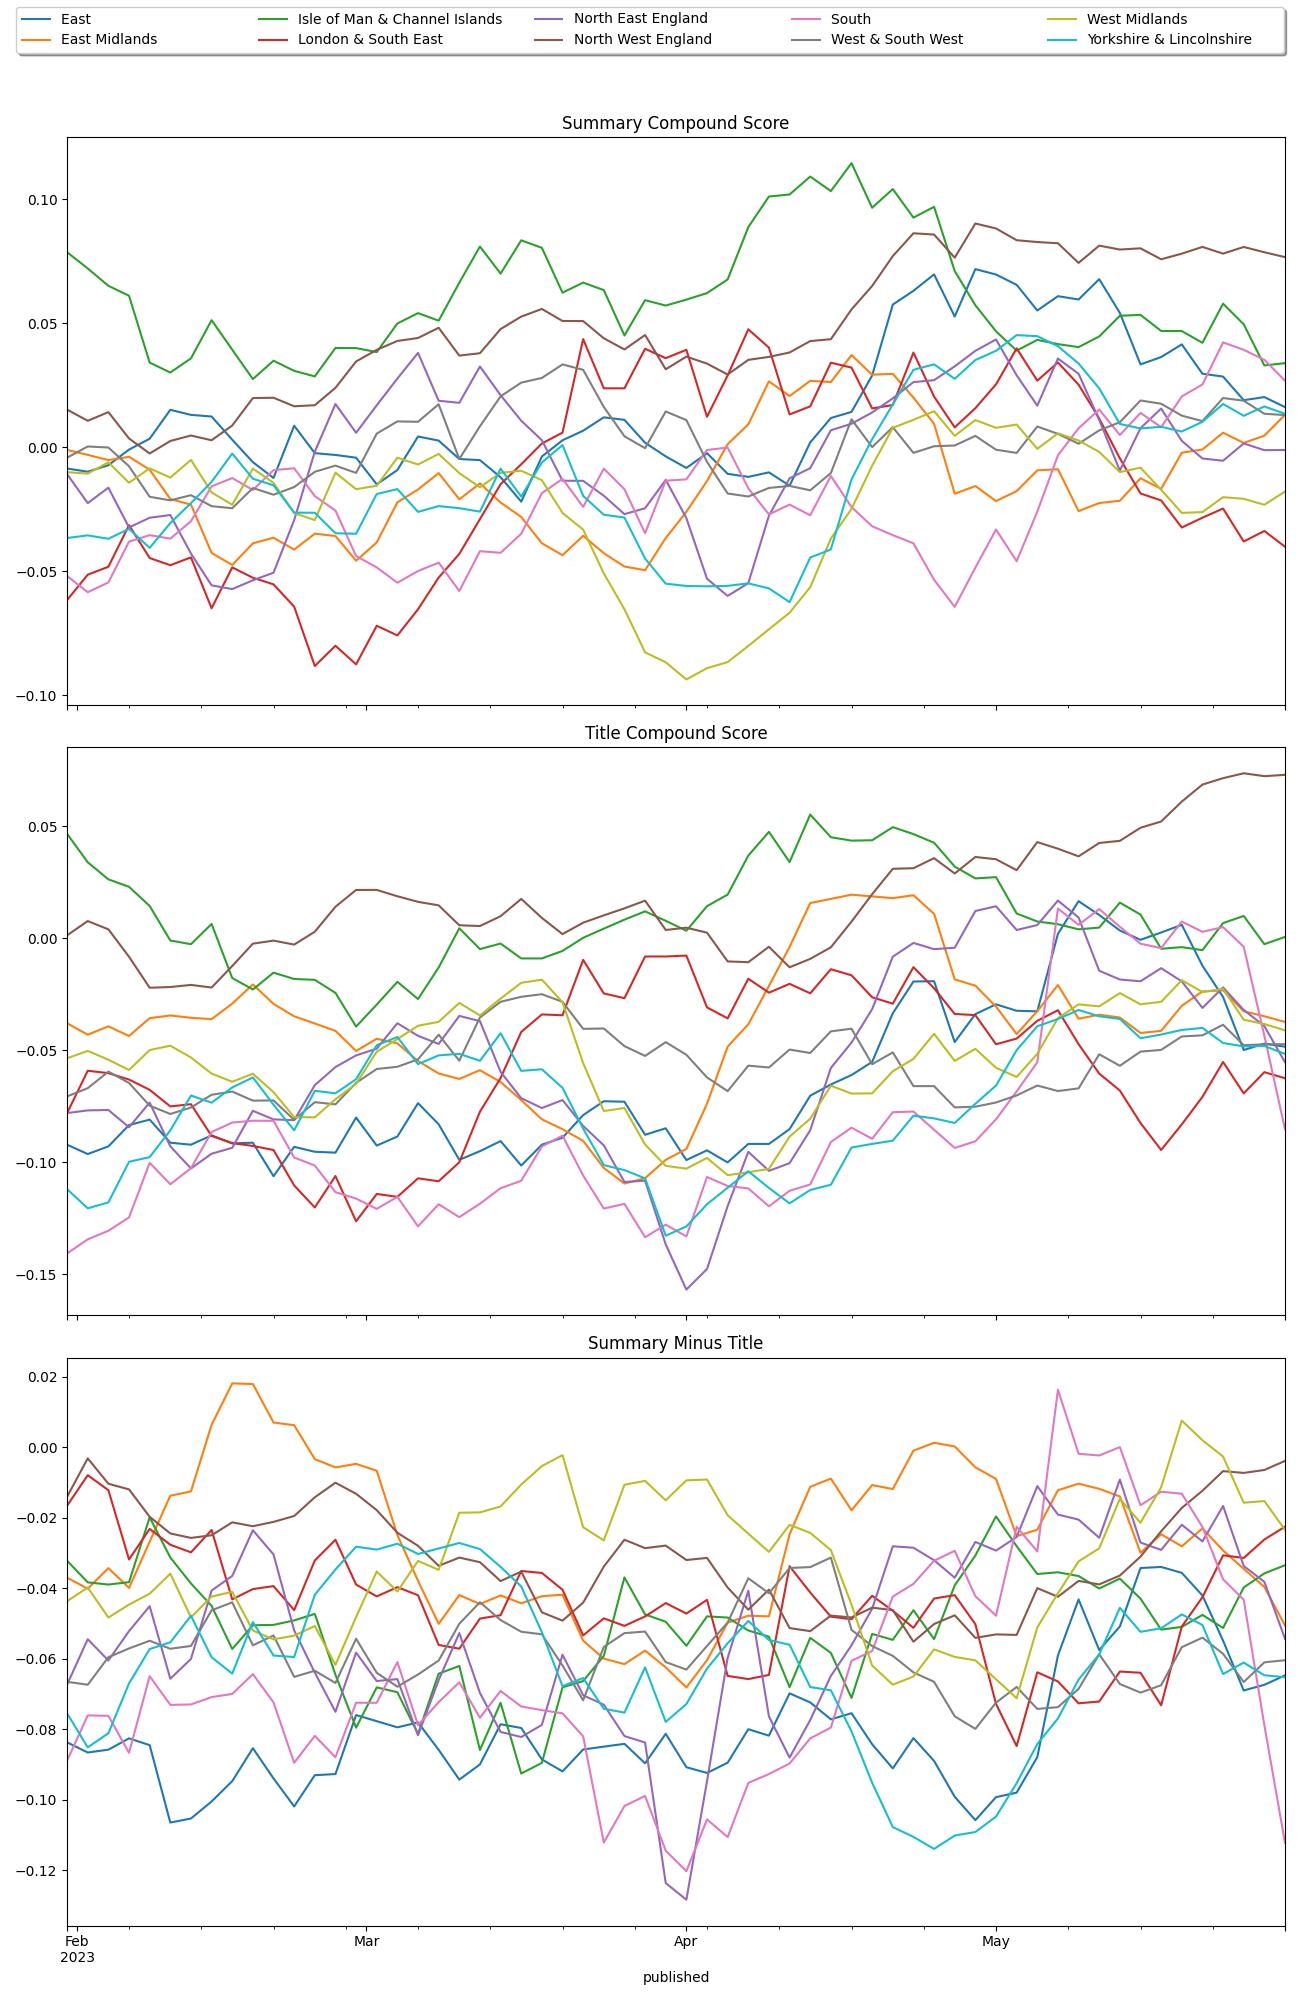
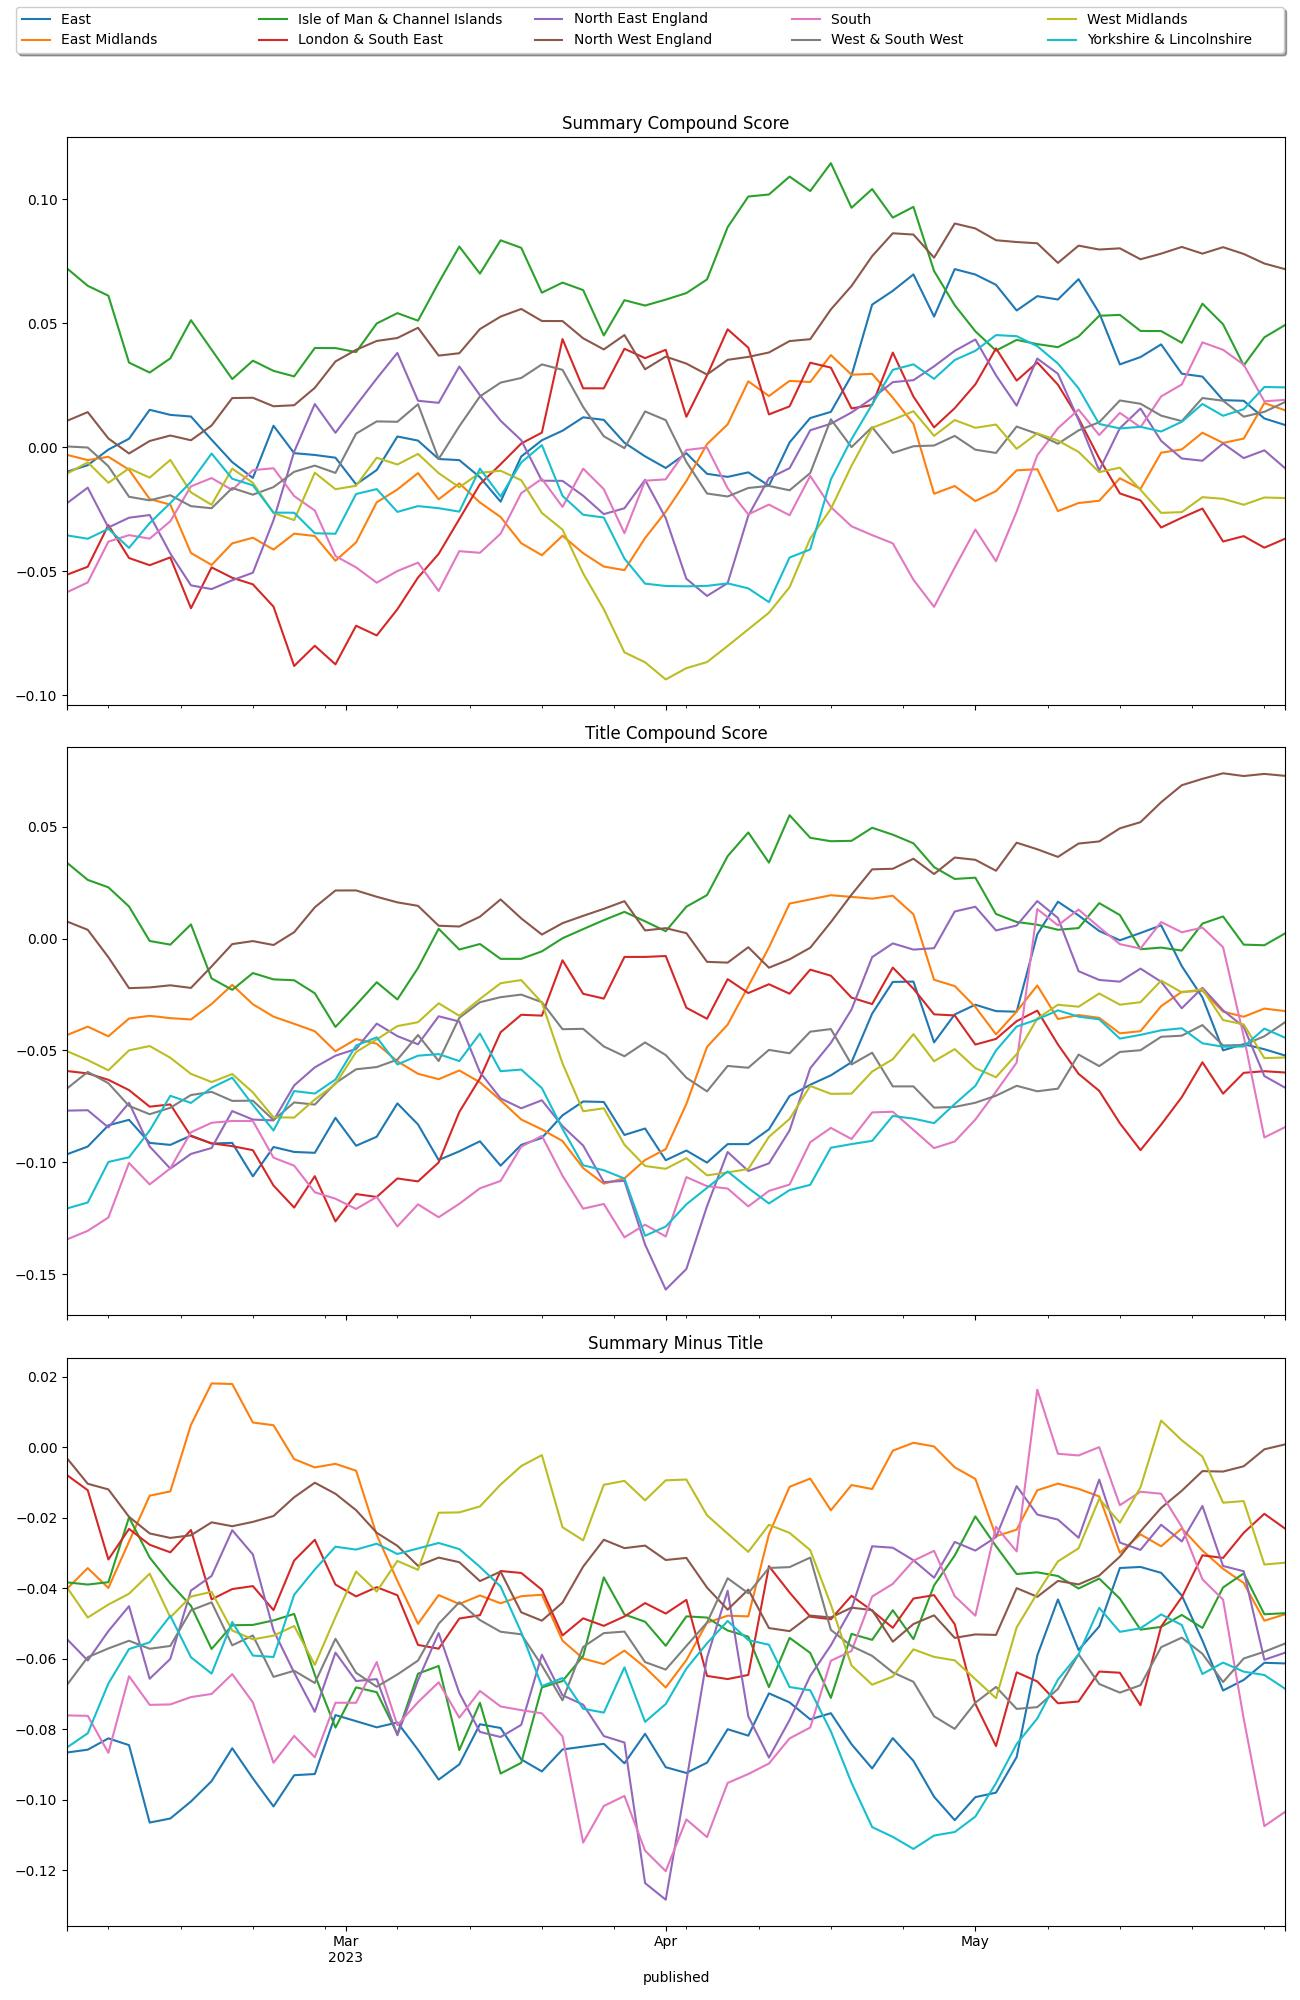
at 2023-05-31 10:47 ran: [Stage: 'complete-basic_report']

diff --git a/reports/complete/latest.md b/reports/complete/latest.md
@@ -1,12 +1,12 @@
-| region                        | published                  | summary                                                                                                    | title                                              | url                                       |   summary_compound_score |   title_compound_score |   summary_minus_title |
-|:------------------------------|:---------------------------|:-----------------------------------------------------------------------------------------------------------|:---------------------------------------------------|:------------------------------------------|-------------------------:|-----------------------:|----------------------:|
-| East                          | 2023-05-30 07:31:44        | The ship, which has capacity for 24,346 standard containers, arrives in Suffolk in the early hours.        | World's largest container ship docks at Felixstowe | /news/uk-england-suffolk-65752096         |                   0      |                 0      |                0      |
-| East Midlands                 | 2023-05-30 08:02:33.401000 |                                                                                                            | Should Leicester have let go of Tielemans?         | /sport/articles/cnlk2572pklo              |                   0      |                 0      |                0      |
-| Isle of Man & Channel Islands | 2023-05-30 05:24:09        | Senior States members say they're "disappointed" in the small number of affordable houses built last year. | Islanders moving away due to housing shortage      | /news/world-europe-guernsey-65723005      |                   0.0772 |                -0.25   |               -0.3272 |
-| London & South East           | 2023-05-30 07:31:39.801000 | A 19-year-old man is in hospital in a serious condition following the assault on Sunday morning.           | Police hunt pair over Epsom assault                | /news/articles/c4n6d4jx526o               |                  -0.6249 |                -0.5859 |                0.039  |
-| North East England            | 2023-05-30 07:46:30.579000 | Villagers now intend to turn it into a shop, cafe and heritage centre that will create jobs.               | The village that bought its 150-year-old chapel    | /news/articles/cxw3lrvw3d0o               |                   0.2732 |                 0      |               -0.2732 |
-| North West England            | 2023-05-30 09:06:49        | South Ribble's Tory MP and Preston's Labour-run council leader clash over where it should be built.        | New Preston hospital will be in South Ribble - MP  | /news/uk-england-lancashire-65752682      |                   0      |                 0      |                0      |
-| South                         | 2023-05-30 09:25:00        | The university's LGBTQ+ Society organises a protest over Kathleen Stock's Oxford Union debate.             | Gender-critical prof determined to do Oxford talk  | /news/education-65714821                  |                  -0.25   |                 0.34   |                0.59   |
-| West & South West             | 2023-05-30 09:13:35        | A 28-year-old is jailed for two years and four months after the attack in Gloucester.                      | Man 'traumatised' by stabbing with scissors in gym | /news/uk-england-gloucestershire-65752993 |                  -0.743  |                 0      |                0.743  |
-| West Midlands                 | 2023-05-30 05:13:37        | A video highlighting Dan Howells' abilities is made after he helped save a customer's life.                | Royal Mail CPR training after postie saves life    | /news/uk-england-birmingham-65726055      |                   0.6369 |                 0      |               -0.6369 |
-| Yorkshire & Lincolnshire      | 2023-05-30 08:04:51.487000 |                                                                                                            | Allardyce was a 'ludicrous' appointment - Sutton   | /sport/articles/c9rnp432d50o              |                   0      |                 0      |                0      |
+| region                        | published                  | summary                                                                                              | title                                               | url                                       |   summary_compound_score |   title_compound_score |   summary_minus_title |
+|:------------------------------|:---------------------------|:-----------------------------------------------------------------------------------------------------|:----------------------------------------------------|:------------------------------------------|-------------------------:|-----------------------:|----------------------:|
+| East                          | 2023-05-31 07:28:18        | More than 90,000 people are expected at this year's Suffolk Show.                                    | Historic show returns to 'champion' local farming   | /news/uk-england-suffolk-65758336         |                   0      |                 0      |                0      |
+| East Midlands                 | 2023-05-31 08:38:53.800000 | The youngsters are shown the latest drones, bulldozers and technology at the Daventry site.          | Students visit building site for inspiration        | /news/articles/cd1xyw511pzo               |                   0      |                 0.5267 |                0.5267 |
+| Isle of Man & Channel Islands | 2023-05-31 09:07:56.649000 | The leader of Guernsey's health committee says he wants quick progress on possible legal changes.    | More regulations considered for vaping in Guernsey  | /news/articles/cpe95g72ql5o               |                   0.5106 |                 0      |               -0.5106 |
+| London & South East           | 2023-05-31 08:18:03.277000 | Access Self Storage says it plans to rebuild the unit in Byfleet after it is demolished.             | Storage site owners plan to rebuild after fire      | /news/articles/crg7m3yd04mo               |                   0      |                -0.34   |               -0.34   |
+| North East England            | 2023-05-31 09:21:31        | A man was found guilty of Kieran Williams' manslaughter but police say his killer is still at large. | Teen's killer still hunted despite man's conviction | /news/uk-england-tyne-65764437            |                  -0.8338 |                -0.6486 |                0.1852 |
+| North West England            | 2023-05-31 09:19:59        | A man from Liverpool was in the sea off Rhodes when a lightning strike happened, local reports say.  | Paddleboarder dies after lightning strike           | /news/uk-england-merseyside-65763189      |                  -0.128  |                -0.128  |                0      |
+| South                         | 2023-05-31 08:45:05        | Waddock Cross oil field could return to production as owners seek to extend its licence.             | Oil field owners seek to extend licence             | /news/uk-england-dorset-65763925          |                   0.1779 |                 0.1779 |                0      |
+| West & South West             | 2023-05-31 09:27:17        | Some in specialist accommodation blocks are paying more than £300 a week for a single room.          | Students call on council to curb rent prices        | /news/uk-england-somerset-65753912        |                  -0.2263 |                 0      |                0.2263 |
+| West Midlands                 | 2023-05-31 09:28:45        | A 48-year-old man died after suffering head injuries in Wolverhampton on Monday.                     | Three more arrests in murder probe                  | /news/uk-england-birmingham-65764688      |                  -0.7717 |                -0.8464 |               -0.0747 |
+| Yorkshire & Lincolnshire      | 2023-05-31 09:09:19        | The blaze at Sheffield's Lady Cannings Plantation could be seen for miles around on Tuesday night.   | Crews tackle large woodland fire                    | /news/uk-england-south-yorkshire-65763999 |                   0      |                -0.34   |               -0.34   |
